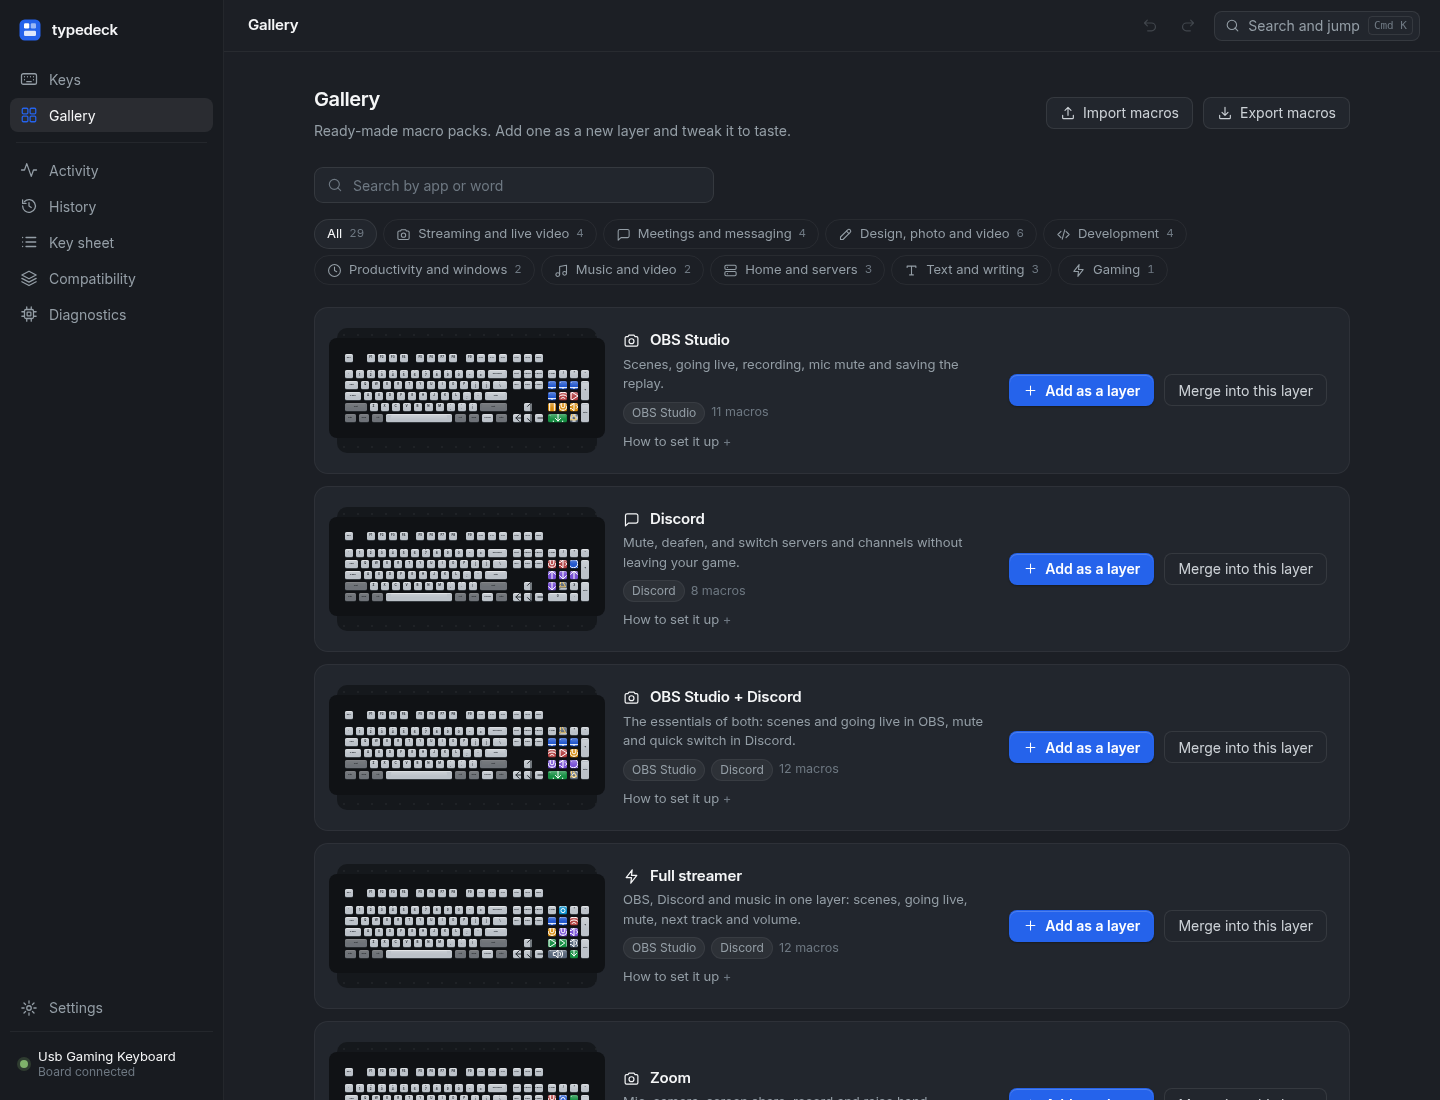
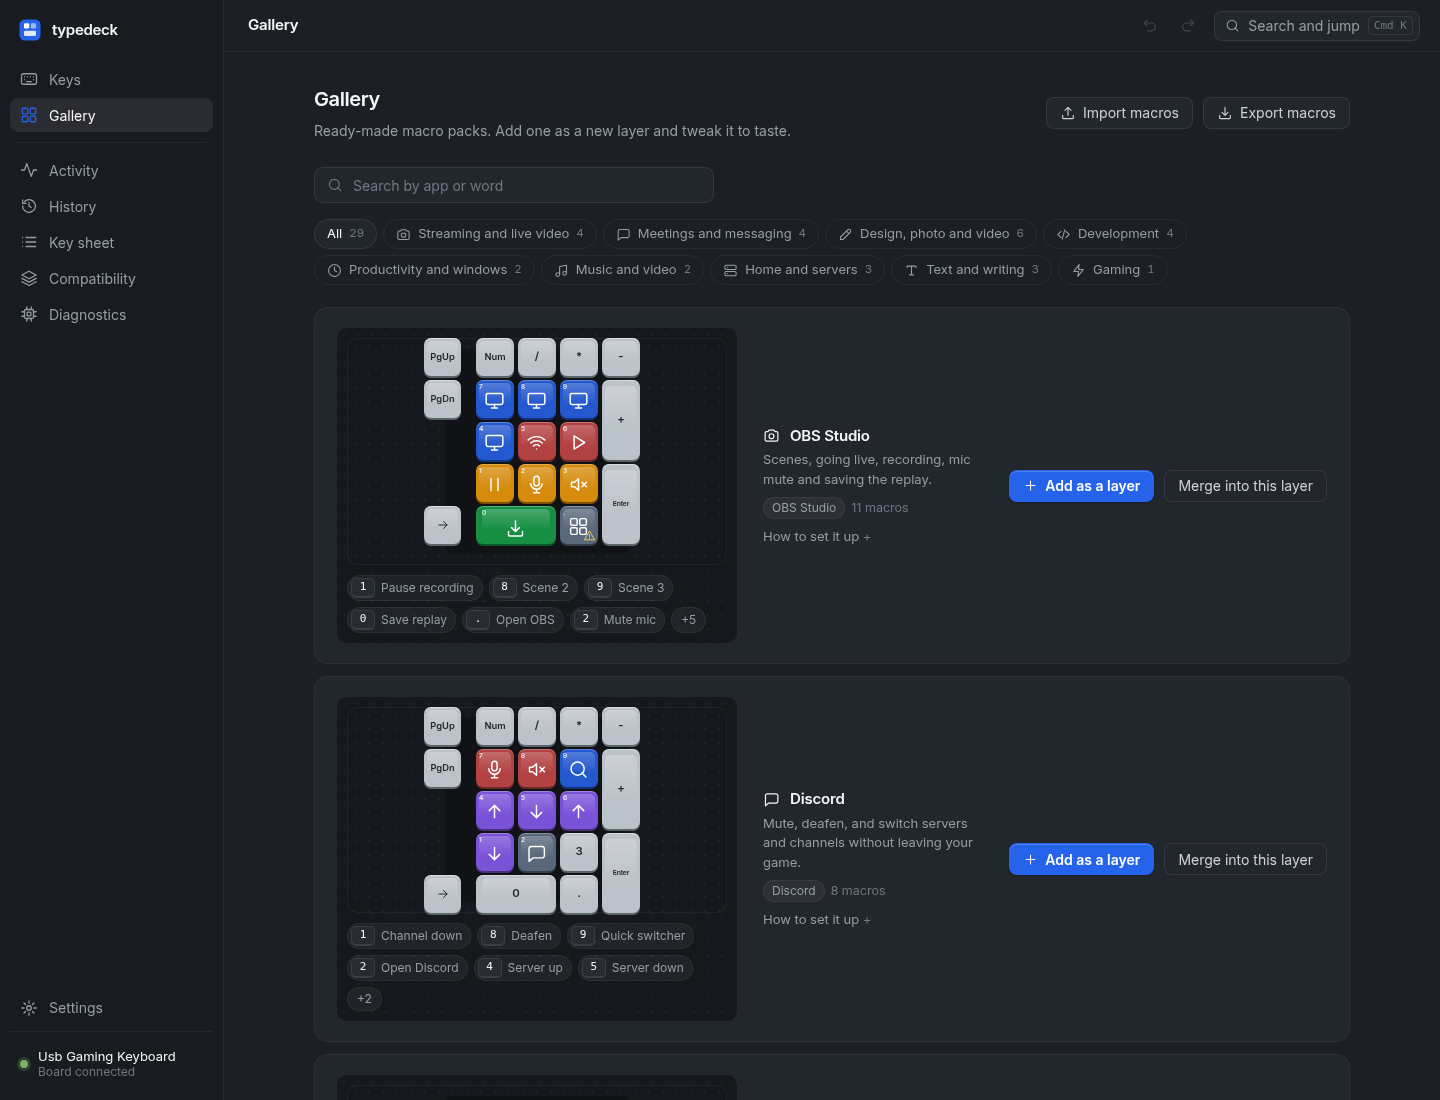
Drag macros between keys and make the gallery previews readable
Dragging a key with a macro onto another key moves it, swaps it with that key's macro, or copies it with Alt held. The keyboard drawing and the
interface chrome can no longer be selected, and Ctrl+C and Ctrl+V no longer copy and paste a macro (the panel buttons do). Gallery previews zoom on
the keys a pack uses instead of drawing the whole keyboard tiny, list the macros under the drawing and open large on click. Screenshots regenerated.

diff --git a/web/ui/js/keyboard.js b/web/ui/js/keyboard.js
@@ -43,9 +43,21 @@ export function keyboard(layoutId, lang, getKd, opts = {}) {
   const wrap = h("div", { class: "kb", "data-layout": layoutId }, plate);
   const caps = new Map();
   let u = opts.u || 46;
-  const pad = 14;
+  const pad = opts.crop ? 8 : 14;
+  let region = { x0: 0, y0: 0, w: L.width, h: L.height };
+  if (opts.crop) {
+    const used = L.keys.filter((k) => { const kd = (getKd(k.usage) || {}).kd; return kd && (kd.tap || kd.hold || kd.double); });
+    if (used.length) {
+      const x0 = Math.max(0, Math.floor(Math.min(...used.map((k) => k.x)) - 0.25)), y0 = Math.max(0, Math.floor(Math.min(...used.map((k) => k.y)) - 0.25));
+      const x1 = Math.min(L.width, Math.ceil(Math.max(...used.map((k) => k.x + k.w)) + 0.25)), y1 = Math.min(L.height, Math.ceil(Math.max(...used.map((k) => k.y + k.h)) + 0.25));
+      region = { x0, y0, w: Math.max(2, x1 - x0), h: Math.max(1, y1 - y0) };
+    }
+    if (opts.width) u = Math.max(14, Math.min(opts.maxU || 44, Math.floor((opts.width - pad * 2) / region.w)));
+  }
+  const inRegion = (k) => k.x + k.w > region.x0 && k.x < region.x0 + region.w && k.y + k.h > region.y0 && k.y < region.y0 + region.h;
 
   for (const k of L.keys) {
+    if (opts.crop && !inRegion(k)) continue;
     const { kd, inherited } = getKd(k.usage) || {};
     const mapped = kd && (kd.tap || kd.hold || kd.double);
     const cls = ["cap", k.mod ? "mod" : "", mapped || kd?.label || kd?.icon ? "mapped" : "", inherited ? "inherited" : "", opts.selected === k.usage ? "sel" : "",
@@ -60,18 +72,32 @@ export function keyboard(layoutId, lang, getKd, opts = {}) {
       onclick: opts.onSelect && !k.mod ? () => opts.onSelect(k.usage) : undefined,
     }, heat !== undefined ? [h("span", { class: "lg tl" }, k.legend.icon ? ic(k.legend.icon, 12) : k.legend.main), h("span", { class: "count" }, opts.count?.(k.usage) || "")] : capContent(k, kd, { u, labels: opts.labels }));
     if (opts.onSelect && !k.mod) el.setAttribute("aria-pressed", String(opts.selected === k.usage));
+    if (opts.onMove && !k.mod) {
+      if (mapped && !inherited) {
+        el.draggable = true;
+        el.addEventListener("dragstart", (e) => { e.dataTransfer.setData("text/plain", String(k.usage)); e.dataTransfer.effectAllowed = "copyMove"; el.classList.add("dragging"); });
+        el.addEventListener("dragend", () => { el.classList.remove("dragging"); for (const c of caps.values()) c.el.classList.remove("drop"); });
+      }
+      el.addEventListener("dragover", (e) => { if (e.dataTransfer.types.includes("text/plain")) { e.preventDefault(); e.dataTransfer.dropEffect = e.altKey ? "copy" : "move"; el.classList.add("drop"); } });
+      el.addEventListener("dragleave", () => el.classList.remove("drop"));
+      el.addEventListener("drop", (e) => {
+        e.preventDefault(); el.classList.remove("drop");
+        const from = parseInt(e.dataTransfer.getData("text/plain"), 10);
+        if (!Number.isNaN(from) && from !== k.usage) opts.onMove(from, k.usage, e.altKey);
+      });
+    }
     caps.set(k.usage, { el, k });
     plate.append(el);
   }
 
   function layoutCaps() {
     const gap = Math.max(3, u * 0.1);
-    plate.style.width = L.width * u + pad * 2 + "px";
-    plate.style.height = L.height * u + pad * 2 + "px";
+    plate.style.width = region.w * u + pad * 2 + "px";
+    plate.style.height = region.h * u + pad * 2 + "px";
     wrap.style.setProperty("--u", u + "px");
     for (const { el, k } of caps.values()) {
-      el.style.left = pad + k.x * u + gap / 2 + "px";
-      el.style.top = pad + k.y * u + gap / 2 + "px";
+      el.style.left = pad + (k.x - region.x0) * u + gap / 2 + "px";
+      el.style.top = pad + (k.y - region.y0) * u + gap / 2 + "px";
       el.style.width = k.w * u - gap + "px";
       el.style.height = k.h * u - gap + "px";
     }
@@ -80,9 +106,9 @@ export function keyboard(layoutId, lang, getKd, opts = {}) {
   function fit() {
     if (opts.u) return;
     const availW = (wrap.parentElement?.clientWidth || 900) - pad * 2 - 4;
-    let next = Math.floor(availW / L.width);
+    let next = Math.floor(availW / region.w);
     const availH = opts.fitHeight ? opts.fitHeight() : 0;
-    if (availH > 0) next = Math.min(next, Math.floor((availH - pad * 2 - 6) / L.height));
+    if (availH > 0) next = Math.min(next, Math.floor((availH - pad * 2 - 6) / region.h));
     next = Math.max(opts.minU || 20, Math.min(opts.maxU || 58, next));
     if (next !== u) { u = next; layoutCaps(); }
   }

diff --git a/web/ui/style.css b/web/ui/style.css
@@ -264,9 +264,9 @@ input:focus, select:focus, textarea:focus { outline: none; border-color: var(--a
 .cat:hover { color: var(--text); background: var(--hover); }
 .cat[aria-selected="true"] { color: var(--strong); background: var(--surface); border-color: var(--line); }
 .cat .n { font-size: 11.5px; color: var(--faint); font-variant-numeric: tabular-nums; }
-.pack { display: grid; grid-template-columns: 260px 1fr auto; gap: 26px; align-items: center; padding: 20px 22px; margin-top: 12px; border-radius: 14px; background: var(--surface); border: 1px solid var(--line-soft); transition: border-color .15s; }
+.pack { display: grid; grid-template-columns: 400px 1fr auto; gap: 26px; align-items: center; padding: 20px 22px; margin-top: 12px; border-radius: 14px; background: var(--surface); border: 1px solid var(--line-soft); transition: border-color .15s; }
 .pack:hover { border-color: var(--line); }
-.pack .preview { display: flex; justify-content: center; align-items: center; min-height: 80px; pointer-events: none; padding: 10px; border-radius: 10px; background: var(--canvas); background-image: radial-gradient(var(--dots) 1px, transparent 1px); background-size: 14px 14px; }
+.pack .preview { display: flex; justify-content: center; align-items: center; min-height: 80px; padding: 10px; border-radius: 10px; background: var(--canvas); background-image: radial-gradient(var(--dots) 1px, transparent 1px); background-size: 14px 14px; }
 .pack .preview .kb-plate { box-shadow: none; }
 .pack h2 { margin-bottom: 3px; } .pack p { color: var(--dim); font-size: 13px; }
 .pack .meta { display: flex; flex-wrap: wrap; align-items: center; gap: 6px; margin-top: 10px; }
@@ -362,3 +362,24 @@ ul.risk code { font-family: var(--mono); font-size: 12px; overflow: hidden; text
 .transcript-wrap { margin: 0 0 30px; }
 .transcript { width: 100%; box-sizing: border-box; resize: vertical; min-height: 150px; max-height: 60vh; padding: 14px 16px; border: 1px solid var(--line); border-radius: 12px; background: var(--input); color: var(--strong); font-family: var(--mono); font-size: 14px; line-height: 1.6; white-space: pre-wrap; overflow-wrap: anywhere; }
 .transcript:focus { outline: none; border-color: var(--accent-line); }
+
+.kb, .kb *, .layerbar, .side, .top, .dock-head, .stage .kbinfo, .previewbox, .chips { user-select: none; -webkit-user-select: none; }
+input, textarea, .console, .selectable, pre, code, .transcript { user-select: text; -webkit-user-select: text; }
+.cap img, .cap svg { -webkit-user-drag: none; }
+.cap[draggable="true"] { cursor: grab; }
+.cap.dragging { opacity: .35; cursor: grabbing; }
+.cap.drop { outline: 2px dashed var(--accent); outline-offset: 2px; z-index: 3; }
+.pack .preview { flex-direction: column; align-items: stretch; gap: 10px; padding: 10px; }
+.previewbox { display: flex; flex-direction: column; gap: 10px; min-width: 0; }
+.mini.zoomable { position: relative; display: flex; justify-content: center; width: 100%; padding: 10px 6px; border: 1px solid var(--line-soft); border-radius: 10px; background: var(--canvas); background-image: radial-gradient(var(--dots) 1px, transparent 1px); background-size: 14px 14px; cursor: zoom-in; color: inherit; font: inherit; }
+.mini.zoomable:hover { border-color: var(--accent-line); }
+.zoom-hint { position: absolute; right: 8px; bottom: 6px; display: inline-flex; gap: 4px; align-items: center; font-size: 11.5px; color: var(--faint); opacity: 0; transition: opacity .15s; }
+.mini.zoomable:hover .zoom-hint, .mini.zoomable:focus-visible .zoom-hint { opacity: 1; }
+.chips { display: flex; flex-wrap: wrap; gap: 6px; }
+.chip { display: inline-flex; align-items: center; gap: 6px; max-width: 100%; padding: 2px 8px 2px 3px; border-radius: 999px; background: var(--hover); border: 1px solid var(--line-soft); font-size: 12px; color: var(--dim); }
+.chip-text { overflow: hidden; text-overflow: ellipsis; white-space: nowrap; max-width: 130px; }
+.chip.more { padding: 2px 9px; }
+.keycap.sm { min-width: 24px; height: 20px; padding: 0 6px; font-size: 11px; border-radius: 5px; }
+.dialog.wide { width: min(860px, calc(100vw - 32px)); }
+.mini.big { display: flex; justify-content: center; padding: 14px; border-radius: 12px; background: var(--canvas); background-image: radial-gradient(var(--dots) 1px, transparent 1px); background-size: 14px 14px; overflow: auto; }
+@media (max-width: 1000px) { .pack { grid-template-columns: 1fr; } }

diff --git a/web/ui/js/gallery.js b/web/ui/js/gallery.js
@@ -2,9 +2,9 @@ import { h, ic, clear } from "./dom.js";
 import { api } from "./api.js";
 import { t, lang } from "./i18n.js";
 import { keyboard, hex } from "./keyboard.js";
-import { legendLang } from "./layouts.js";
+import { legend, legendLang } from "./layouts.js";
 import { toast } from "./toast.js";
-import { state, edit, layerCount, layoutId } from "./store.js";
+import { state, edit, layerCount, layoutId, describe } from "./store.js";
 import { importPack, exportEverything } from "./share.js";
 
 const pick = (v) => (v && typeof v === "object" ? v[lang()] || v.es : v);
@@ -31,10 +31,31 @@ export function galleryView(root) {
     return api("/api/packs/resolve", { method: "POST", body: { id: p.id, layout: layoutId(), lang: lang() } });
   }
 
+  const keyLabel = (u) => { const l = legend(u, legendLang()); return l?.icon ? t("key.arrow") : (l?.main || "").trim() || hex(u); };
+  const macroList = (r) => Object.entries({ ...r.global, ...r.layer.keys }).map(([id, kd]) => ({ u: parseInt(id, 16), kd })).filter((m) => m.kd.tap || m.kd.hold || m.kd.double);
+
   function preview(p, r) {
     const get = (u) => ({ kd: r.layer.keys[hex(u)] || r.global[hex(u)] });
-    const known = state.layouts[layoutId()];
-    return h("div", { class: "mini" }, keyboard(layoutId(), legendLang(), get, { u: known && known.width > 12 ? 11 : 22, labels: false, titles: false, color: p.color }).el);
+    const kbd = keyboard(layoutId(), legendLang(), get, { crop: true, width: 380, maxU: 42, labels: false, titles: false, color: p.color });
+    const chips = macroList(r).slice(0, 6).map((m) => h("span", { class: "chip" }, h("span", { class: "keycap sm" }, keyLabel(m.u)), h("span", { class: "chip-text" }, m.kd.label || describe(m.kd.tap || m.kd.hold || m.kd.double))));
+    const more = macroList(r).length - chips.length;
+    return h("div", { class: "previewbox" },
+      h("button", { type: "button", class: "mini zoomable", title: t("gallery.enlarge"), "aria-label": t("gallery.enlarge"), onclick: () => enlarge(p, r) }, kbd.el, h("span", { class: "zoom-hint" }, ic("search", 14), t("gallery.enlarge"))),
+      h("div", { class: "chips" }, chips, more > 0 ? h("span", { class: "chip more" }, `+${more}`) : null));
+  }
+
+  function enlarge(p, r) {
+    const get = (u) => ({ kd: r.layer.keys[hex(u)] || r.global[hex(u)] });
+    const close = () => { scrim.remove(); document.removeEventListener("keydown", onKey, true); };
+    const onKey = (e) => { if (e.key === "Escape") { e.preventDefault(); e.stopPropagation(); close(); } };
+    const rows = macroList(r).map((m) => h("tr", {}, h("td", {}, h("span", { class: "keycap sm" }, keyLabel(m.u))), h("td", {}, m.kd.label || describe(m.kd.tap || m.kd.hold || m.kd.double)), h("td", { class: "dim" }, t("type." + (m.kd.tap || m.kd.hold || m.kd.double).type))));
+    const scrim = h("div", { class: "scrim", onclick: (e) => { if (e.target === scrim) close(); } },
+      h("div", { class: "dialog wide", role: "dialog", "aria-modal": "true", "aria-label": pick(p.name) },
+        h("div", { class: "row", style: { gap: "10px" } }, h("h2", { class: "grow row" }, ic(p.icon, 18), pick(p.name)), h("button", { type: "button", class: "tool", "aria-label": t("common.done"), onclick: close }, ic("x", 16))),
+        h("div", { class: "mini big" }, keyboard(layoutId(), legendLang(), get, { crop: true, width: 760, maxU: 64, labels: true, titles: false, color: p.color }).el),
+        h("table", { class: "macro-table" }, h("tbody", {}, rows))));
+    document.addEventListener("keydown", onKey, true);
+    document.body.append(scrim);
   }
 
   function drawList() {

diff --git a/web/ui/js/workbench.js b/web/ui/js/workbench.js
@@ -58,8 +58,28 @@ export function workView(root) {
   function renderKeyboard() {
     renderBanner();
     kb?.destroy();
-    kb = keyboard(layoutId(), legendLang(), getKd, { selected: usageOf(state.selKey), onSelect: selectKey, color: accent(), maxU: 60, fitHeight: () => stage.clientHeight - infoLine.offsetHeight - bannerHost.offsetHeight - 70 });
+    kb = keyboard(layoutId(), legendLang(), getKd, { selected: usageOf(state.selKey), onSelect: selectKey, onMove: moveKey, color: accent(), maxU: 60, fitHeight: () => stage.clientHeight - infoLine.offsetHeight - bannerHost.offsetHeight - 70 });
     clear(kbHost).append(kb.el);
+  }
+
+  function moveKey(from, to, copy) {
+    const a = hex(from), b = hex(to);
+    const keys = keysOf();
+    if (!keys[a]) return;
+    edit("", () => {
+      const src = clone(keys[a]), dst = keys[b] ? clone(keys[b]) : null;
+      keys[b] = src;
+      if (copy) return;
+      if (dst) keys[a] = dst; else delete keys[a];
+    });
+    state.selKey = b; state.panel = "key";
+    renderKeyboard(); renderDock();
+    toast(t(copy ? "key.copied_to" : keys[a] ? "key.swapped" : "key.moved", { from: keyName(from), to: keyName(to) }));
+  }
+
+  function keyName(usage) {
+    const k = getLayout(layoutId(), legendLang()).keys.find((x) => x.usage === usage);
+    return k ? (k.legend.icon ? t("key.arrow") + " " + t("arrow." + k.legend.icon) : k.legend.main) : hex(usage);
   }
 
   function selectKey(usage) { state.selKey = hex(usage); state.panel = "key"; renderKeyboard(); renderDock(); }
@@ -221,8 +241,6 @@ export function workView(root) {
     if (dirs[e.key] && !e.metaKey && !e.ctrlKey && kb) { e.preventDefault(); selectKey(neighbor(kb.layout, usageOf(state.selKey), ...dirs[e.key])); return; }
     const id = state.selKey;
     if ((e.key === "Delete" || e.key === "Backspace") && keyDef(id)) { e.preventDefault(); edit("", () => { delete keysOf()[id]; }); renderDock(); return; }
-    if ((e.metaKey || e.ctrlKey) && e.key.toLowerCase() === "c" && keyDef(id)) { state.clip = clone(keyDef(id)); toast(t("key.copied")); return; }
-    if ((e.metaKey || e.ctrlKey) && e.key.toLowerCase() === "v" && state.clip) { e.preventDefault(); edit("", () => { keysOf()[id] = clone(state.clip); }); renderDock(); }
   };
   document.addEventListener("keydown", onKey);
 

diff --git a/web/ui/js/selftest.js b/web/ui/js/selftest.js
@@ -42,6 +42,12 @@ export async function run() {
     const sw = $$(".dock .group .swatch:not(.none):not(.custom)")[3]; sw.click(); await sleep(50);
     ok("key color", /^#/.test(state.cfg.layers[0].keys["04"].color || "") && $('.cap[data-u="4"]').classList.contains("colored"));
 
+    const drop = (from, to) => { const dt = new DataTransfer(); dt.setData("text/plain", String(from)); $(`.cap[data-u="${to}"]`).dispatchEvent(new DragEvent("drop", { dataTransfer: dt, bubbles: true, cancelable: true })); };
+    ok("the keyboard cannot be selected as text", getComputedStyle($(".kb")).userSelect === "none");
+    drop(4, 6); await sleep(80);
+    ok("dragging a macro to an empty key moves it", state.cfg.layers[0].keys["06"]?.tap?.app === "Safari" && !state.cfg.layers[0].keys["04"], Object.keys(state.cfg.layers[0].keys).join());
+    drop(6, 4); await sleep(80);
+    ok("dragging it back restores it", state.cfg.layers[0].keys["04"]?.tap?.app === "Safari" && !state.cfg.layers[0].keys["06"]);
     document.dispatchEvent(new KeyboardEvent("keydown", { key: "ArrowRight", bubbles: true })); await sleep(50);
     ok("arrows move the selection by geometry", state.selKey !== "04", state.selKey);
 
@@ -68,6 +74,11 @@ export async function run() {
 
     location.hash = "#/gallery"; await sleep(120);
     ok("gallery with packs", $$(".pack").length >= 6, $$(".pack").length);
+    ok("a pack preview shows the keys it uses, big, with its macros listed", !!$(".pack .mini.zoomable .cap") && $$(".pack .chip").length > 0);
+    $(".pack .mini.zoomable").click(); await sleep(150);
+    ok("clicking a pack preview enlarges it", !!$(".dialog.wide .cap"));
+    document.dispatchEvent(new KeyboardEvent("keydown", { key: "Escape", bubbles: true })); await sleep(80);
+    ok("Escape closes the enlarged preview", !$(".dialog.wide"));
     const layers0 = state.cfg.layers.length;
     byText(".pack .btn.primary", t("gallery.add")).click(); await sleep(80);
     ok("adding a pack creates a layer", state.cfg.layers.length === layers0 + 1);

diff --git a/web/ui/js/i18n.js b/web/ui/js/i18n.js
@@ -220,6 +220,7 @@ const ES = {
   "hist.box_title": "Lo que escribes", "hist.box_ph": "Lo que tecleees aparecerá aquí, en directo.", "hist.box_help": "Se reconstruye con tus pulsaciones: respeta mayúsculas y borrados, y los atajos salen entre corchetes, como [Cmd+C].", "hist.copy": "Copiar", "hist.copied": "Texto copiado",
   "type.history": "Historial de tecleo", "hist.act_toggle": "Activar o desactivar", "hist.act_on": "Activar", "hist.act_off": "Desactivar", "hist.act_help": "Pulsa la tecla para encender o apagar el historial de tecleo sin abrir el editor.",
   "hist.days": "Conservar {n} días", "hist.keep_help": "Lo más antiguo se borra solo.",
+  "gallery.enlarge": "Ampliar", "key.moved": "{from} movida a {to}", "key.swapped": "{from} y {to} intercambiadas", "key.copied_to": "{from} copiada en {to}",
 };
 
 const EN = {
@@ -444,6 +445,7 @@ const EN = {
   "hist.box_title": "What you type", "hist.box_ph": "Whatever you type will show up here, live.", "hist.box_help": "Rebuilt from your key presses: it keeps capitals and deletions, and shortcuts appear in brackets, like [Cmd+C].", "hist.copy": "Copy", "hist.copied": "Text copied",
   "type.history": "Typing history", "hist.act_toggle": "Turn on or off", "hist.act_on": "Turn on", "hist.act_off": "Turn off", "hist.act_help": "Press the key to switch the typing history on or off without opening the editor.",
   "hist.days": "Keep {n} days", "hist.keep_help": "The oldest entries are deleted automatically.",
+  "gallery.enlarge": "Enlarge", "key.moved": "{from} moved to {to}", "key.swapped": "{from} and {to} swapped", "key.copied_to": "{from} copied to {to}",
 };
 
 const DICTS = { es: ES, en: EN };

diff --git a/docs/MACROS.md b/docs/MACROS.md
@@ -3,6 +3,11 @@
 Every key can have three actions: **tap**, **hold** and **double tap**. A key with only a hold or double action still types its own
 character on a short press, so it never goes dead. The hold and double thresholds are in Settings (450 ms and 280 ms by default).
 
+## Moving macros
+
+Drag a key that has a macro onto another key. On an empty key it moves, on a key with a macro the two swap, and holding Alt (Option on a Mac)
+copies it instead. The copy and paste buttons of the key panel do the same between layers.
+
 ## Layers
 
 Up to nine layers, each with a name, a color and an optional list of apps that activate it by themselves. The **All layers** tab

diff --git a/CHANGELOG.md b/CHANGELOG.md
@@ -1,5 +1,15 @@
 # Changelog
 
+## Unreleased
+
+### Added
+- Drag a macro from one key to another in the editor: onto an empty key it moves, onto a key with a macro the two swap, and holding Alt (Option) copies.
+- The gallery previews zoom on the keys a pack uses, list its macros under the drawing, and open large when clicked.
+
+### Changed
+- The keyboard drawing and the editor chrome cannot be selected as text, and Ctrl+C and Ctrl+V no longer copy and paste a key's macro (the copy
+  and paste buttons of the key panel still do).
+
 ## 0.6.1 - 2026-10-03
 
 ### Fixed
